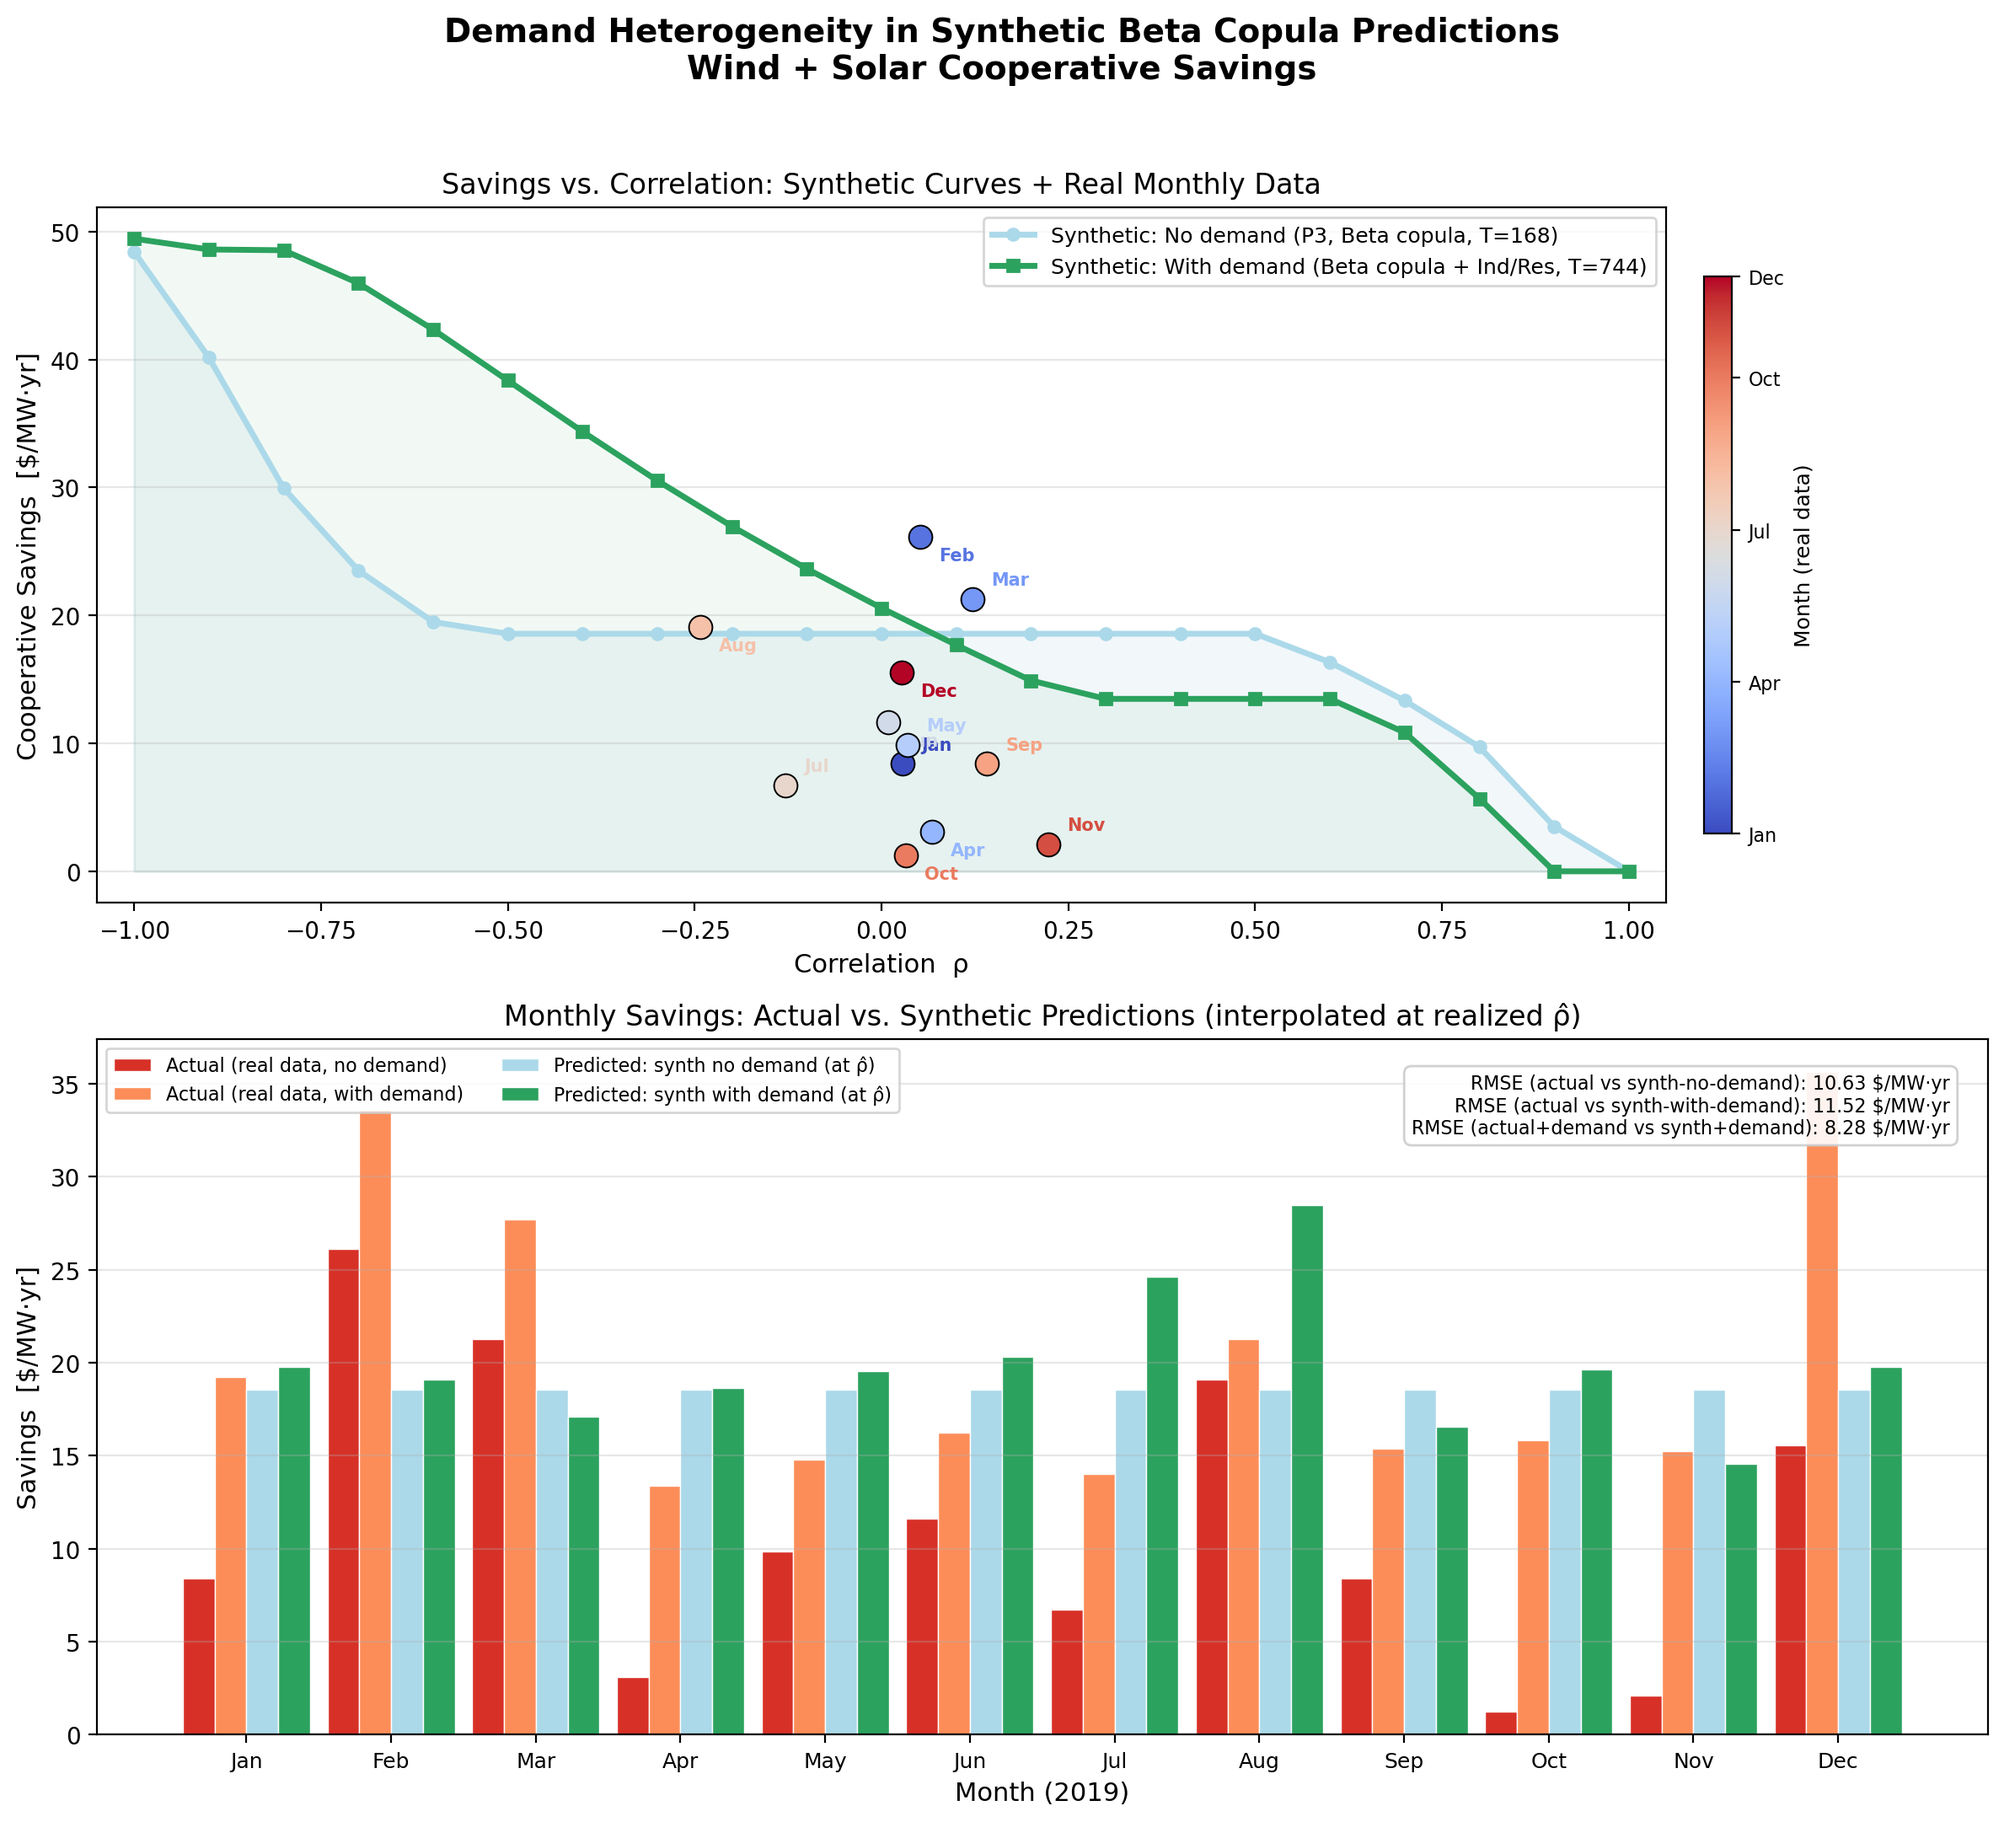
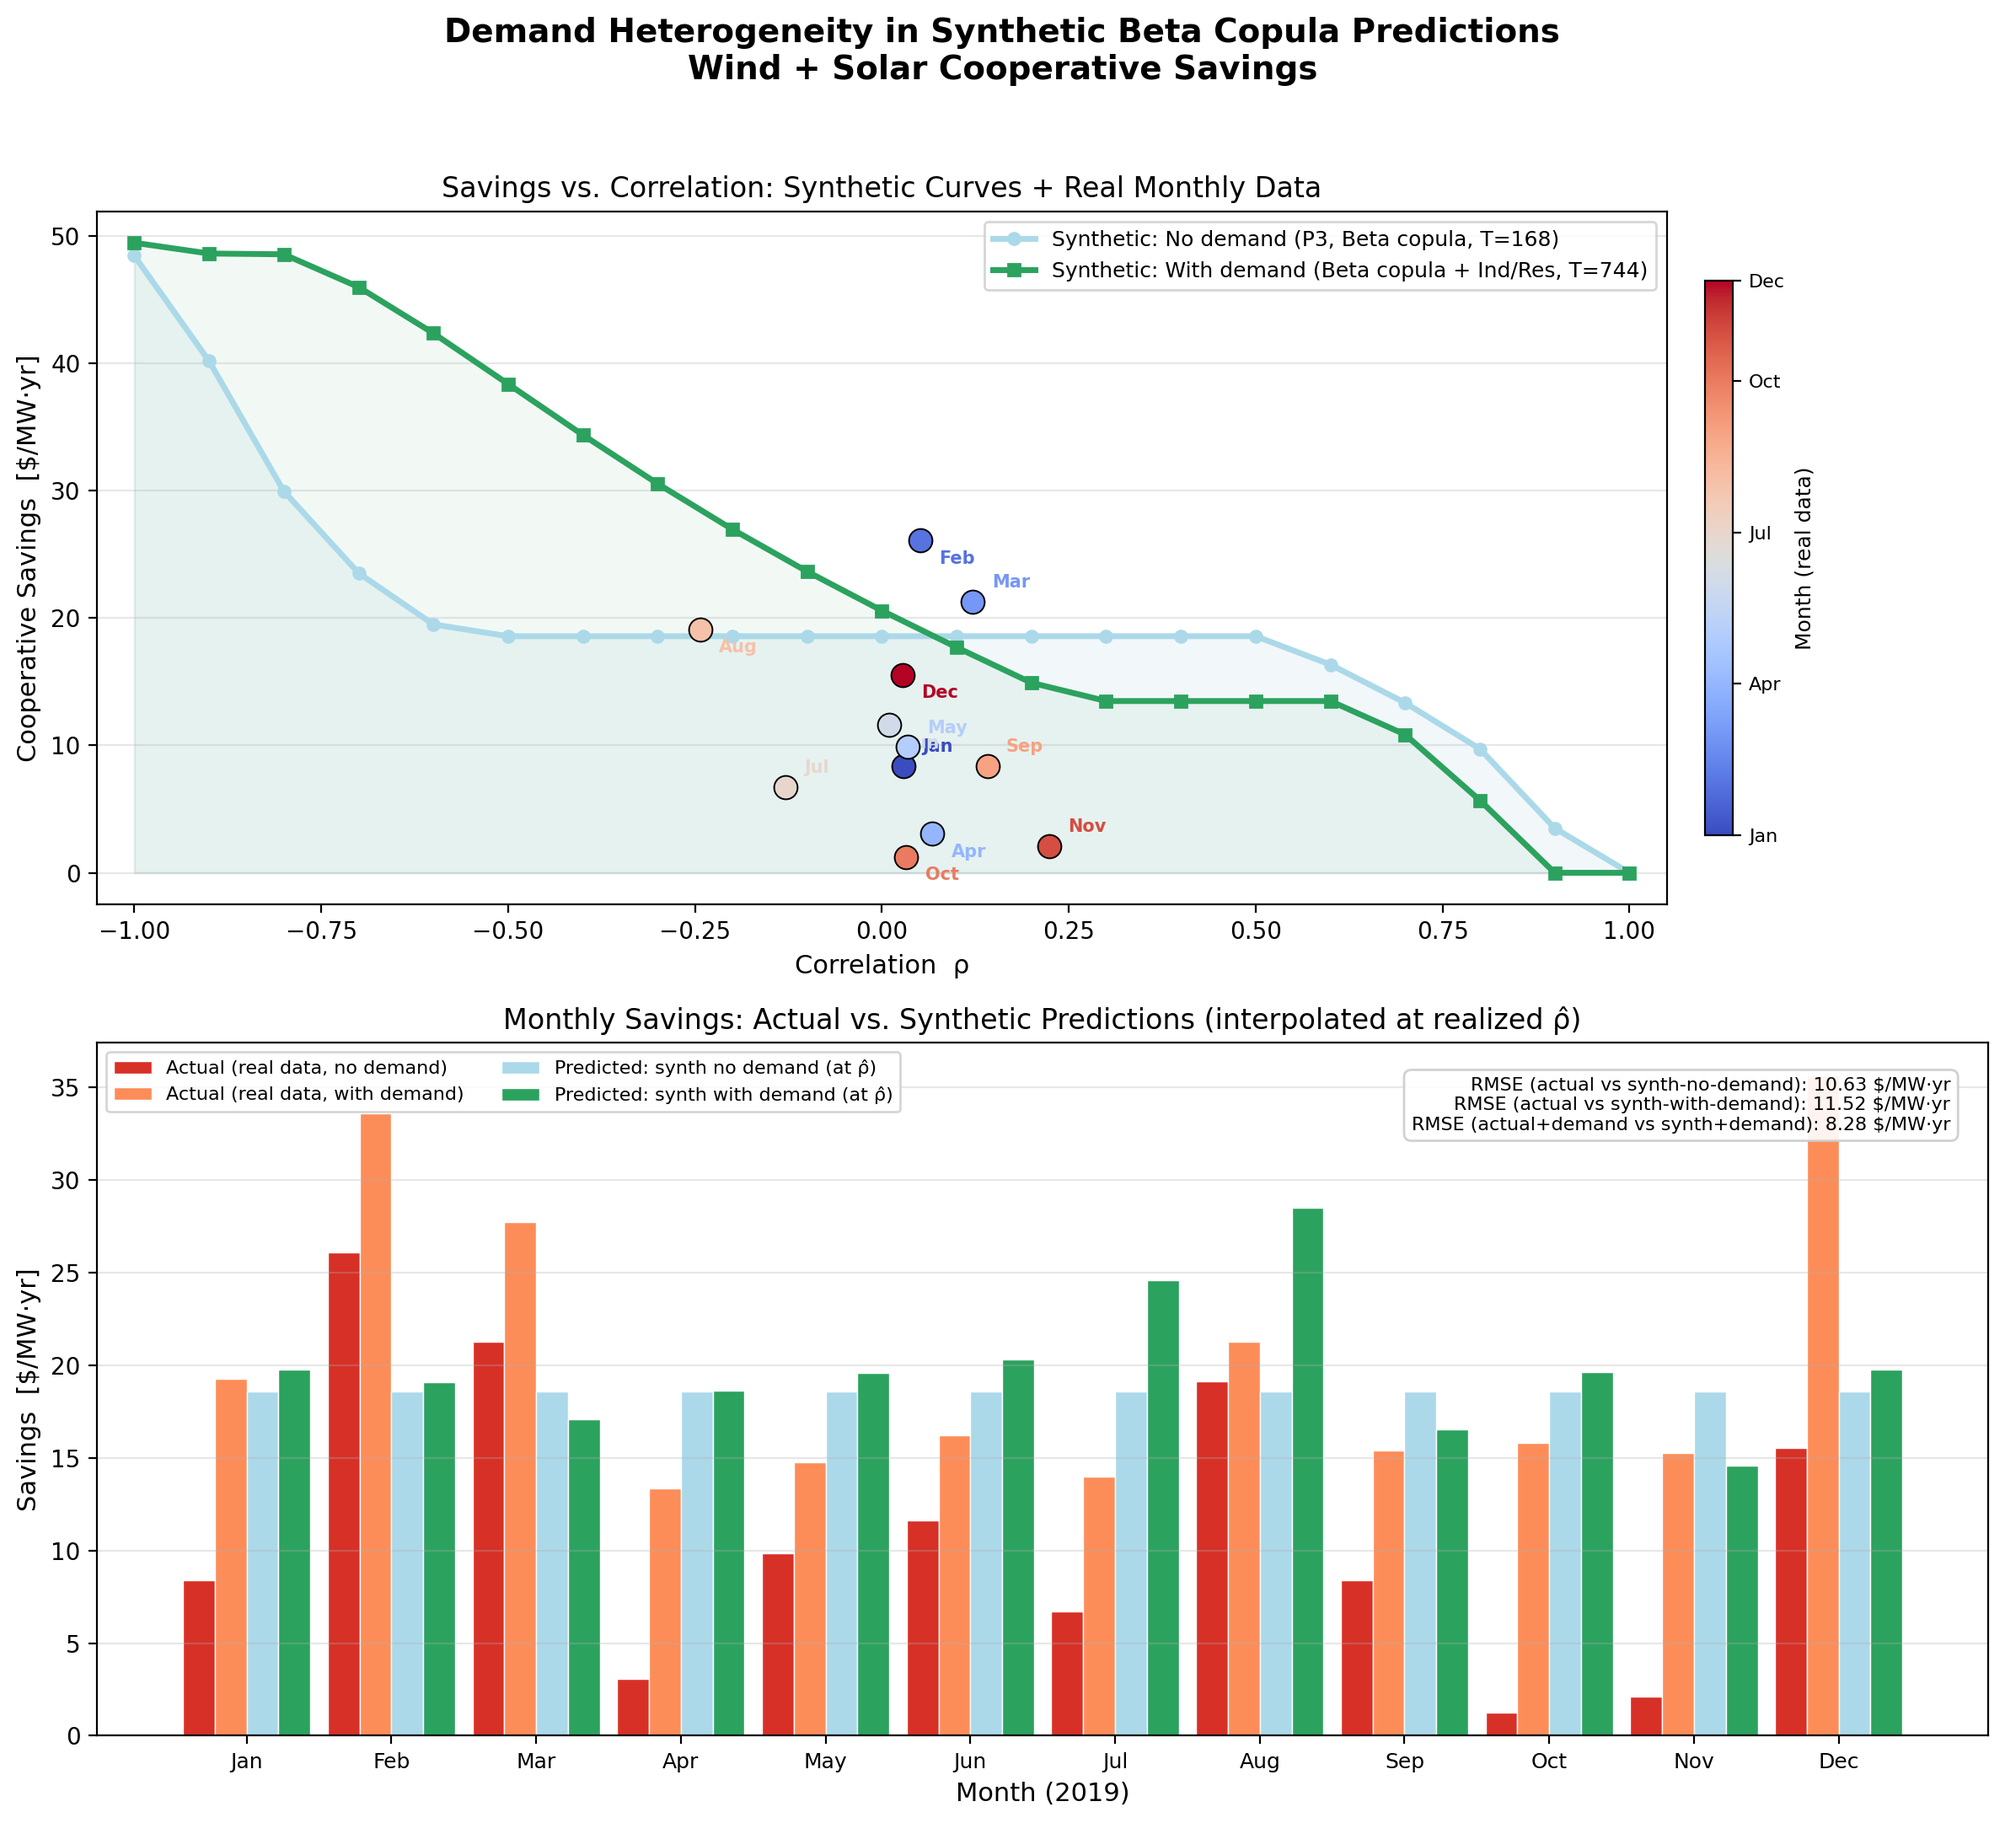
edited readme

diff --git a/project_2/README.md b/project_2/README.md
@@ -1,60 +1,111 @@
 # Project 2: Cost Allocation via the Nucleolus
 
+ECON 138/238 — Optimization in Power Systems & Electricity Markets
+
 ## Running
 
-To run all problems:
+Reproduce all figures and tables:
 ```
 julia runner.jl
 ```
 
-To run a single problem:
+Run a single problem:
 ```
 julia problem1.jl
 julia problem2.jl
+julia problem3.jl
+julia problem4.jl          # single-month (January)
+julia problem4_sweep.jl    # 12-month sweep
+julia problem5.jl           # demand-side heterogeneity experiments
+```
+
+Generate plots (after Julia scripts have produced CSVs):
+```
+python3 plot_networks.py
+python3 plot_coalition_analysis.py
+python3 plot_p4.py
+python3 plot_p5.py
+python3 plot_p5_demand_comparison.py
 ```
 
 ## File Structure
 
+### Core algorithms
 | File | Purpose |
 |------|---------|
-| `algorithms.jl` | Shared computation: `compute_cost`, `all_subsets`, `coalition_vector`, `compute_all_costs`, `nucleolus_sequential_lp` |
-| `save_outputs.jl` | CSV writers for results |
-| `problem1.jl` | P1: n=2, T=2, hardcoded INV, perfect anti-correlation |
-| `problem2.jl` | P2: n=3 and n=10, Euclidean INV, seed=238 |
-| `problem3.jl` | P3: n=2, T=168, bivariate generation (stub — not yet implemented) |
-| `runner.jl` | Runs all implemented problems in sequence |
-| `problem_1.jl` | Original P1 submission file (do not modify) |
-| `problem_2.jl` | Original P2 submission file (do not modify) |
-| `calibrate_coalition_cost.jl` | Parameter calibration script for P1 INV values |
+| `algorithms.jl` | Coalition-cost LP (`compute_cost`), coalition enumeration (`all_subsets`, `coalition_vector`, `compute_all_costs`), sequential-LP nucleolus (`nucleolus_sequential_lp`) |
+| `save_outputs.jl` | CSV writers for metadata, node positions, line costs, coalition costs, nucleolus |
+
+### Problem scripts (one self-contained script per problem)
+| File | Purpose |
+|------|---------|
+| `problem1.jl` | **P1**: n=2, T=2, perfect anti-correlation, calibrated INV. Verifies x*=(55,65) |
+| `problem2.jl` | **P2**: n=3 and n=10, T=n, Euclidean INV, seed=238 |
+| `problem3.jl` | **P3**: n=2, T=168 hours, correlation sweep ρ∈[-1,+1] using Gaussian copula with Beta(2,5) marginals |
+| `problem4.jl` | **P4**: n=2, real renewables.ninja PV+wind data (Tehachapi, CA, 2019) |
+| `problem4_sweep.jl` | **P4 extension**: 12-month sweep, overlay on P3 synthetic curve |
+| `problem5.jl` | **P5**: Demand-side heterogeneity — synthetic load profiles with real generation |
+| `problem5_synthetic_sweep.jl` | **P5 extension**: Correlation sweep with demand (P3-style, with load) |
+
+### Plotting scripts (Python/Matplotlib)
+| File | Purpose |
+|------|---------|
+| `plot_networks.py` | Network diagrams for P1, P2 (n=3), P2 (n=10) |
+| `plot_coalition_analysis.py` | Coalition cost analysis plots for P2 (n=3, n=10) |
+| `plot_p4.py` | P4 overlay on P3 curve, monthly bars, generation scatter, annual time series |
+| `plot_p5.py` | P5 pairing comparison, scale sweep, monthly comparison, demand profiles |
+| `plot_p5_demand_comparison.py` | P5 synthetic sweep comparison (with vs. without demand) |
+
+### Other files
+| File | Purpose |
+|------|---------|
+| `runner.jl` | Master script — runs all problems and plots in sequence |
+| `calibrate_coalition_cost.jl` | Parameter calibration for P1 INV values |
+| `p4_data/` | Renewables.ninja CSV data (PV and wind capacity factors, 2019) |
 
 ## Outputs
 
-Results are written to `results/` as CSVs:
+Results are written to `results/` as CSVs and PNGs:
 
 ```
 results/
 ├── problem1/
-│   ├── metadata.csv          n, T, C(N), timestamp
-│   ├── line_costs.csv        investment cost per line
-│   ├── coalition_costs.csv   C(s) and C(s)/C(N) for all coalitions
-│   └── nucleolus.csv         x* and x*/C(N) per player
-└── problem2/
-    ├── n3/                   same files for n=3
-    └── n10/                  same files for n=10
+│   ├── metadata.csv, line_costs.csv, coalition_costs.csv, nucleolus.csv
+│   └── network_diagram.png
+├── problem2/
+│   ├── n3/   (same CSVs + network_diagram.png, coalition_cost_vs_size.png, ...)
+│   └── n10/  (same CSVs + network_diagram.png, coalition_cost_vs_size.png, ...)
+├── problem3/
+│   ├── sweep.csv
+│   └── savings_vs_rho.png, shares_vs_rho.png, rho_sanity_check.png
+├── problem4/
+│   ├── summary.csv, monthly_sweep.csv, annual_generation.csv
+│   └── overlay_on_p3.png, monthly_bars.png, generation_scatter.png, annual_timeseries.png
+└── problem5/
+    ├── pairings.csv, scale_sweep.csv, monthly_with_demand.csv, monthly_no_demand.csv
+    ├── demand_profiles.csv, synthetic_sweep_with_demand.csv
+    └── pairing_comparison.png, scale_sweep.png, monthly_comparison.png, ...
 ```
 
 ## Dependencies
 
+Julia:
 ```julia
-using JuMP, HiGHS, CSV, DataFrames, Random, LinearAlgebra, Printf, Dates
+using JuMP, HiGHS, CSV, DataFrames, Random, Distributions, LinearAlgebra, Statistics, Printf, Plots, Dates
 ```
 
-All packages should already be installed in your Julia environment. If not:
+Python:
+```
+matplotlib, numpy
+```
+
+Install Julia packages if needed:
 ```julia
 import Pkg
-Pkg.add(["JuMP", "HiGHS", "CSV", "DataFrames"])
+Pkg.add(["JuMP", "HiGHS", "CSV", "DataFrames", "Distributions", "Plots"])
 ```
 
-## Random Seed
+## Random Seeds
 
-P2 uses `seed = 238` for node position sampling. Share this seed with other groups so coalition costs agree.
+- **P2**: `seed = 238` for node position sampling
+- **P3**: `seed = 238` for copula generation
